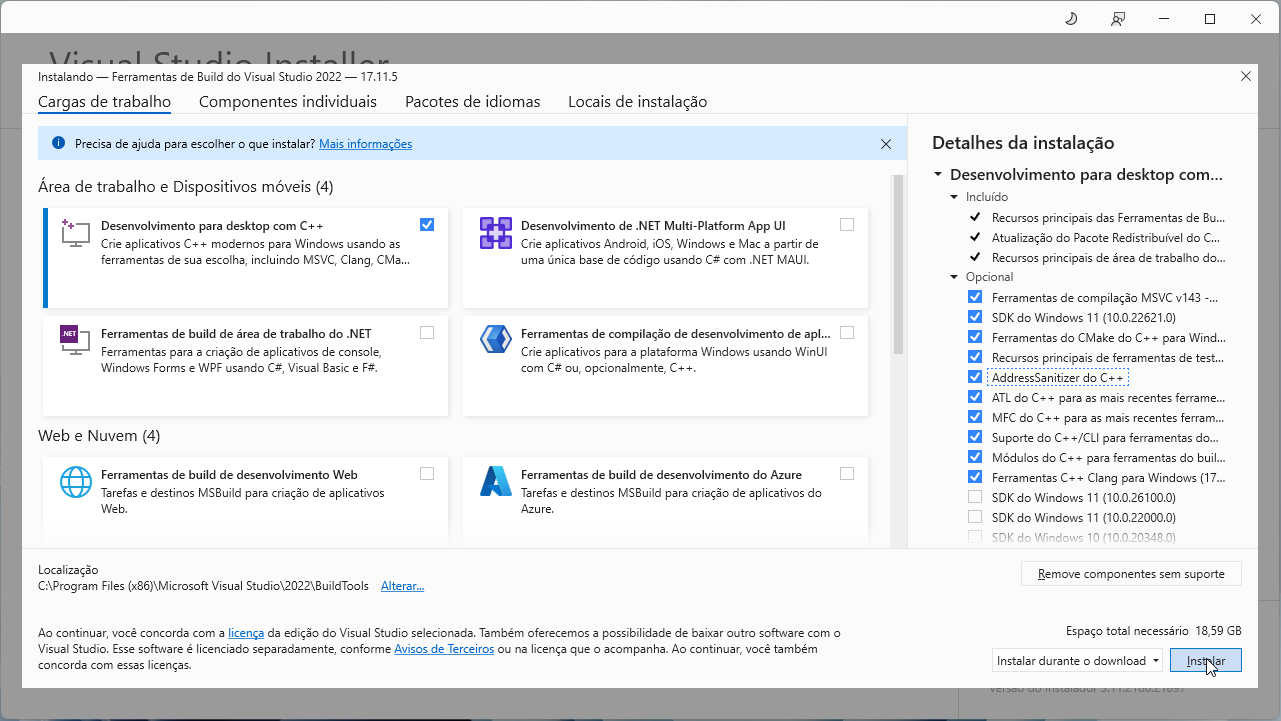
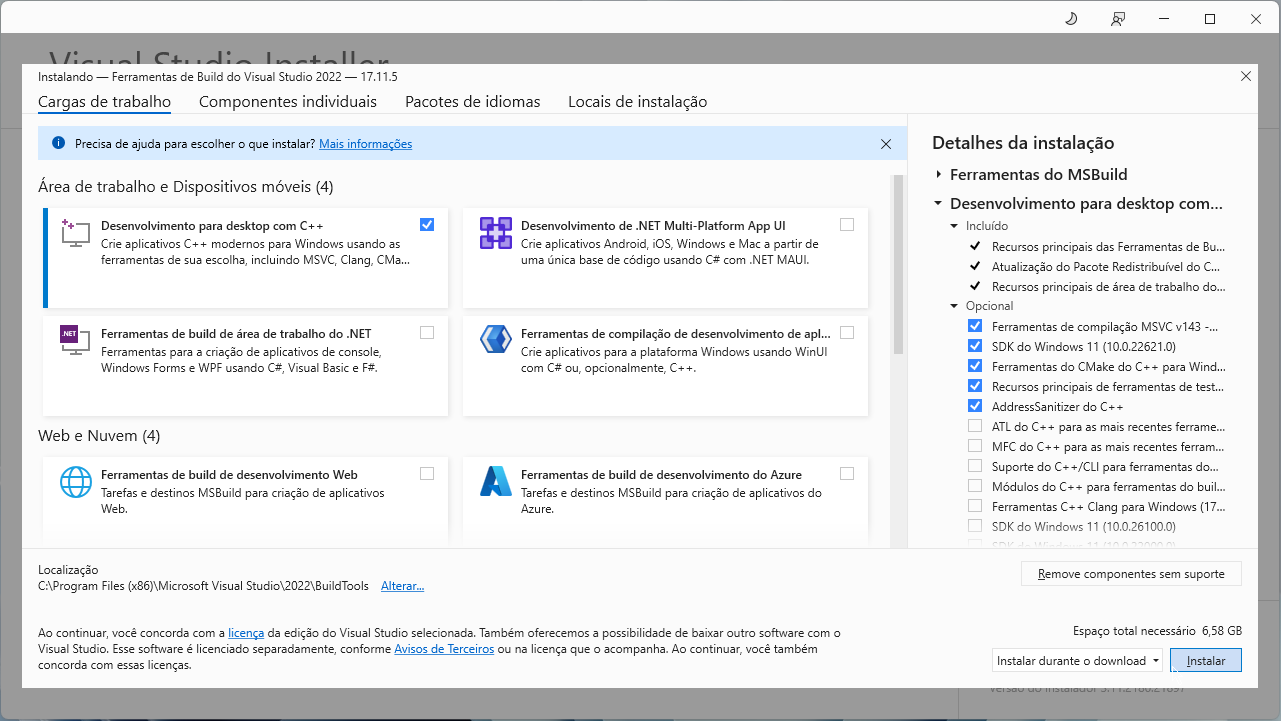
Install Python on Windows

Changed region(s): [[0.7494, 0.2136, 0.968, 0.7628], [0.8431, 0.8544, 0.968, 0.8849], [0.9368, 0.9154, 0.968, 0.9459]]

diff --git a/src/chapters/python/install/index.md b/src/chapters/python/install/index.md
@@ -1,0 +1,48 @@
+# Instalação
+
+O Python é instalado por padrão no Ubuntu (e WSL) e no Fedora, bastando verificar se as ferramentas auxiliares estão instaladas.
+Já no Windows, é necessário instalar o Python manualmente.
+
+## Linux
+
+<!-- TODO -->
+
+## Windows
+
+Para instalar o Python no Windows, acesse a página de [downloads](https://www.python.org/downloads/windows/) e baixe a versão mais recente.
+
+Se seu computador for de 64 bits (e muito provavelmente é, a não ser que seja realmente **muito** velho), baixe a versão de 64 bits.
+Caso contrário, baixe a versão de 32 bits.
+
+Execute o instalador.
+Na primeira tela, marque as opções:
+
+- Use admin privileges when installing py.exe.
+- Add Python to PATH.
+
+Então, clique em **Install Now**.
+
+<figure>
+<img src="./installer.png" />
+<figcaption>Instalação do Python para Windows.</figcaption>
+</figure>
+
+Aguarde a instalação terminar.
+Então, clique em **Close**.
+
+<figure>
+<img src="./finish_installation.png" />
+<figcaption>Finalizar instalação do Python para Windows.</figcaption>
+</figure>
+
+Para verificar se a instalação foi bem-sucedida, abra o **Powershell** e digite os comandos:
+
+```bash
+python --version
+pip --version
+```
+
+<figure>
+<img src="./testing_installation.png" />
+<figcaption>Verificando se a instalação do Python foi bem-sucedida.</figcaption>
+</figure>

diff --git a/src/chapters/c_cpp/debugger/index.md b/src/chapters/c_cpp/debugger/index.md
@@ -1,0 +1,22 @@
+# Depurador
+
+O depurador é uma ferramenta que permite que você execute um programa passo a passo, inspecionando variáveis e observando o fluxo de execução.
+Isso é útil para encontrar bugs e entender o comportamento do programa.
+
+Você pode já ter utilizado o depurador [**GDB**](https://www.sourceware.org/gdb/) (GNU Debugger).
+Ele é do mesmo projeto do GCC (GNU Compiler Collection).
+
+Apesar de ser comumente utilizado para depurar códigos em C e C++, o GDB, além de outros depuradores, podem suportar outras linguagens.
+Isso depende da forma como o compilador gera o código objeto e provê informações de depuração.
+
+Então percebemos que, para o depurador funcionar, ele deve ser compatível com o compilador que gerou o binário.
+
+Uma vez que estamos utilizando o compilador **Clang**, escolheremos o depurador [**LLDB**](https://lldb.llvm.org/) (LLVM Debugger), que também é parte do projeto LLVM.
+
+O LLDB depende de ter instalado o Python.
+Em sistemas Linux (incluindo WSL), o Python já vem instalado.
+Já para o Windows, leia o capítulo [Python](/src/chapters/python/index.md).
+
+## Windows
+
+![alt text](image.png)

diff --git a/src/chapters/c_cpp/compiler/index.md b/src/chapters/c_cpp/compiler/index.md
@@ -52,11 +52,6 @@ No menu lateral na esquerda, selecione as seguintes opções:
 - Ferramentas do CMake do C++ para Windows
 - Recursos principais de ferramentas de teste --- Ferramentas de Build
 - AddressSanitizer do C++
-- ATL do C++ para as mais recentes ferramentas do build v143 (x86 e x64)
-- MFC do C++ para as mais recentes ferramentas do build v143 (x86 e x64)
-- Suporte do C++/CLI para ferramentas do build v143 (mais recente)
-- Módulos do C++ para ferramentas do build v143 (mais recente)
-- Ferramentas C++ Clang para Windows
 
 <figure>
 <img src="installing_msvc.png" />

diff --git a/src/SUMMARY.md b/src/SUMMARY.md
@@ -13,4 +13,8 @@
   - [Zsh](chapters/shell/zsh/index.md)
   - [Temas](chapters/shell/themes/index.md)
   - [Plugins](chapters/shell/plugins/index.md)
+- [Python](chapters/python/index.md)
+  - [Instalação](chapters/python/install/index.md)
 - [C e C++](chapters/c_cpp/index.md)
+  - [Compilador](chapters/c_cpp/compiler/index.md)
+  - [Depurador](chapters/c_cpp/debugger/index.md)

diff --git a/src/chapters/python/index.md b/src/chapters/python/index.md
@@ -1,0 +1,5 @@
+# Python
+
+Python é uma linguagem de programação de alto nível, interpretada e de script.
+Além de ser utilizada para desenvolver seus projetos, muitas ferramentas e bibliotecas utilizadas pelo sistema e por outros aplicativos dependem do Python.
+Por isso, é fundamental que você saiba como instalar e utilizar o Python.
